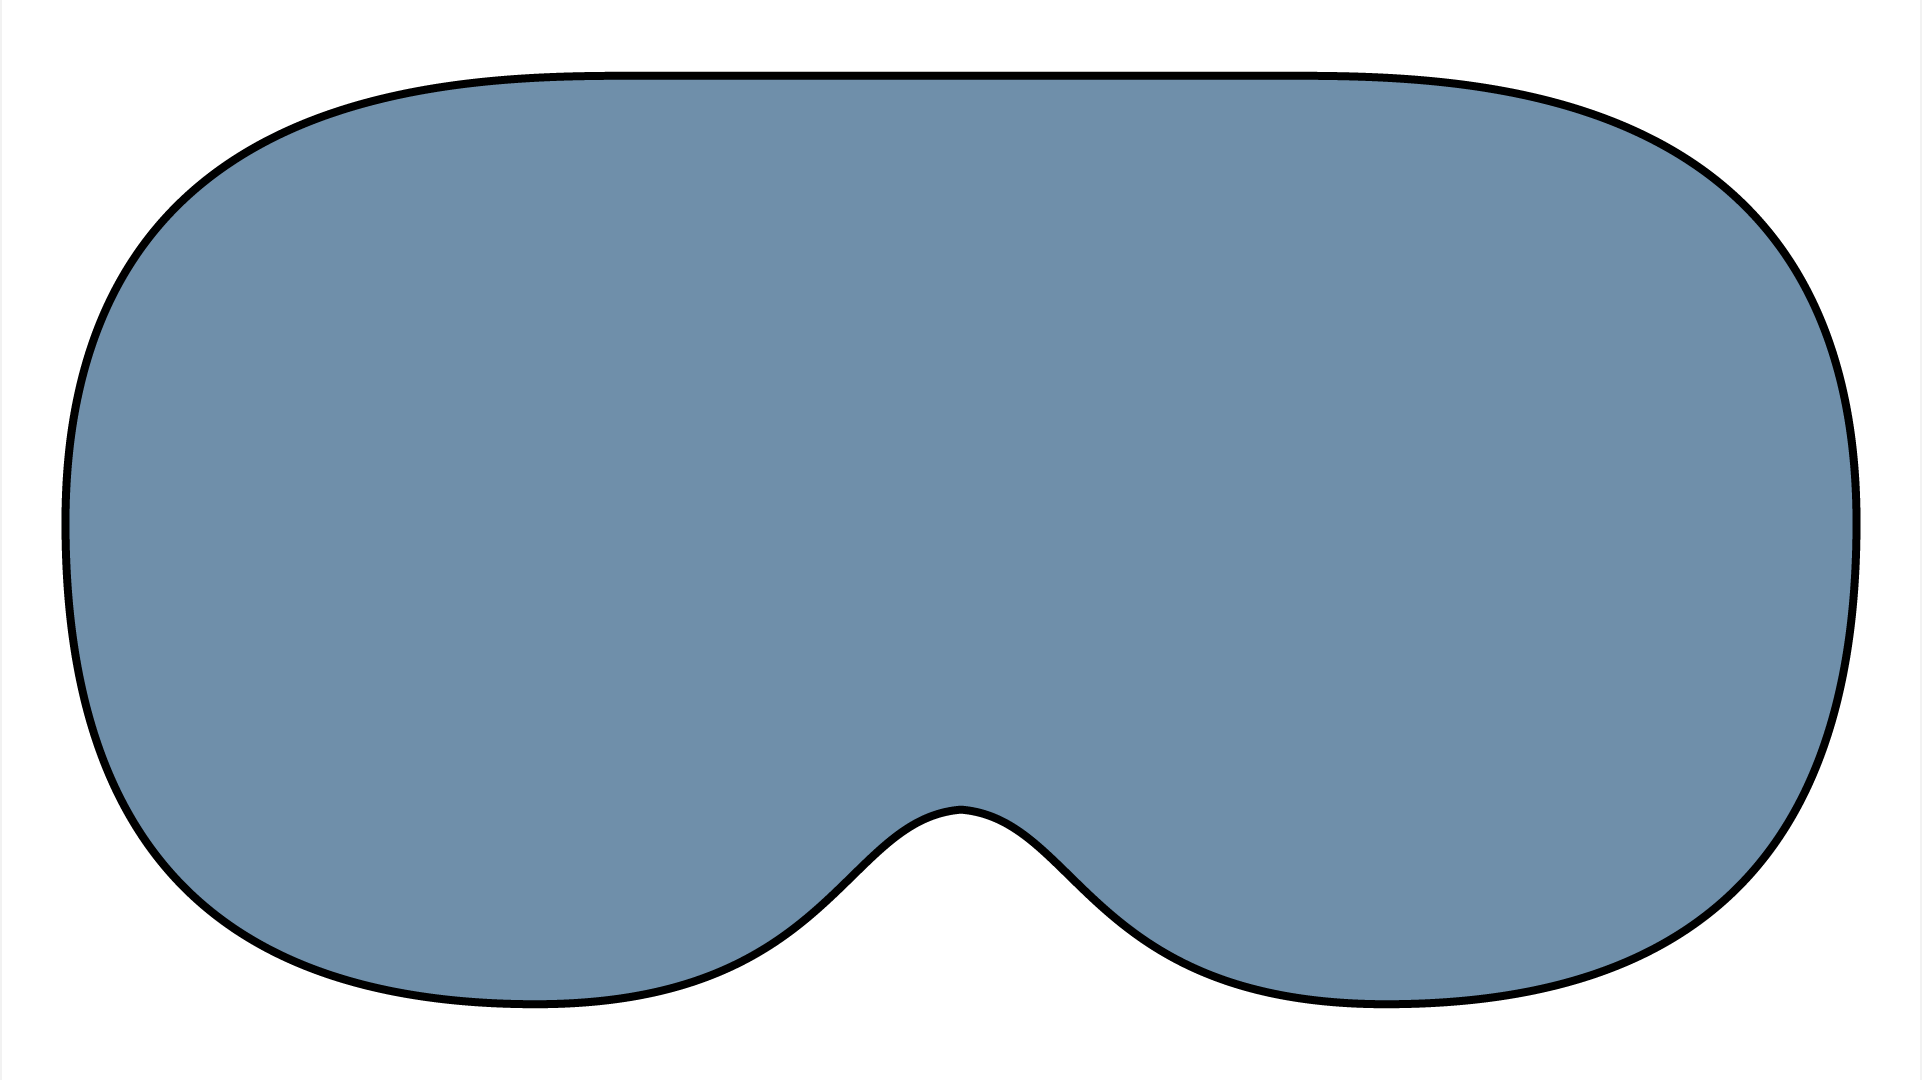
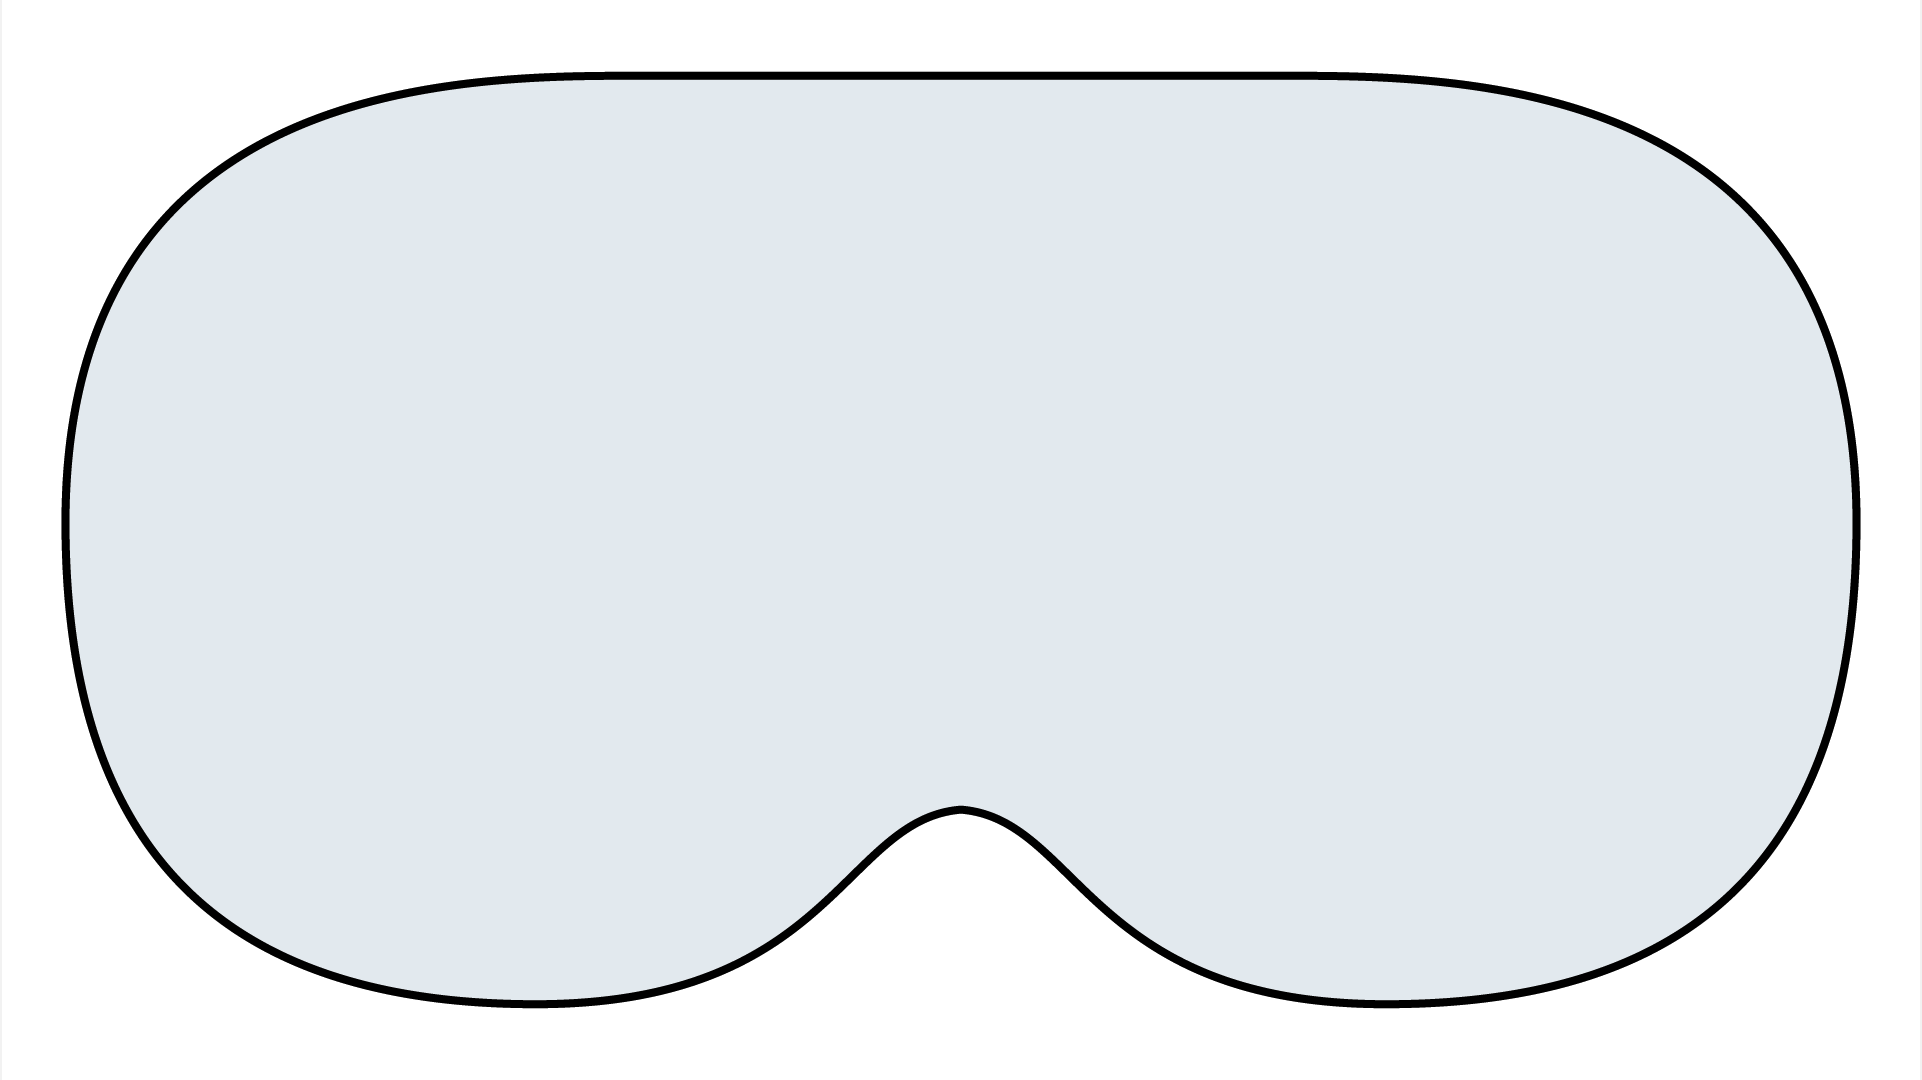
Added MRCarousel

diff --git a/src/components/MRCarousel.jsx b/src/components/MRCarousel.jsx
@@ -1,7 +1,7 @@
 import {Box, Typography} from "@material-ui/core";
 import Carousel from "react-material-ui-carousel";
 
-export const VRCarousel = () => {
+export const MRCarousel = () => {
   return (
     <Box
       className="page"
@@ -15,8 +15,8 @@ export const VRCarousel = () => {
     >
       <img
         className="over-1 absolute"
-        src="images/vr-frame.png"
-        alt="vr frame"
+        src="images/mr-frame.png"
+        alt="mr frame"
       />
       <Box
         sx={{
@@ -63,14 +63,9 @@ export const VRCarousel = () => {
           >
             <Box sx={{maxWidth: "80%"}}>
               <Typography className="gray-box" variant="h2" align="center">
-                Virtual Reality
+                Mixed Reality
               </Typography>
             </Box>
-            <img
-              className="under-1 absolute"
-              src="images/forrest.jpg"
-              alt="forrest"
-            />
           </Box>
           <Box
             sx={{
@@ -83,14 +78,9 @@ export const VRCarousel = () => {
           >
             <Box sx={{maxWidth: "80%"}}>
               <Typography className="gray-box" variant="h2" align="center">
-                changes surroundings...
+                more words
               </Typography>
             </Box>
-            <img
-              className="under-1 absolute"
-              src="images/forrest.jpg"
-              alt="forrest"
-            />
           </Box>
           <Box
             sx={{
@@ -103,14 +93,9 @@ export const VRCarousel = () => {
           >
             <Box sx={{maxWidth: "80%"}}>
               <Typography className="gray-box" variant="h2" align="center">
-                ...or in another scenic place.
+                add more here
               </Typography>
             </Box>
-            <img
-              className="under-1 absolute"
-              src="images/livingroom.jpg"
-              alt="living room"
-            />
           </Box>
           <Box
             sx={{
@@ -123,20 +108,12 @@ export const VRCarousel = () => {
           >
             <Box sx={{maxWidth: "80%"}}>
               <Typography className="white" variant="h2" align="center">
-                Virtual Reality
+                Augmented Reality
               </Typography>
-              <Typography className="white">Virtual Reality</Typography>
+              <Typography className="white">Augmented Reality</Typography>
             </Box>
-            <Box
-              className="under-1 absolute dark-screen"
-              sx={{height: "100vh", width: "100vw"}}
-            />
           </Box>
         </Carousel>
-        <Box
-          className="under-2 absolute dark-screen"
-          sx={{height: "100vh", width: "100vw"}}
-        />
       </Box>
     </Box>
   );

diff --git a/src/App.js b/src/App.js
@@ -1,11 +1,11 @@
 import React from 'react';
 import './app.css';
 import { Typography, Box } from '@material-ui/core';
-import { TypedText, Page, StickyBox, VRCarousel, ARCarousel } from 'components';
+import { TypedText, Page, StickyBox, VRCarousel, ARCarousel, MRCarousel } from 'components';
 import { Waypoint } from 'react-waypoint';
 
 const App = () => {
-  const realityTypes = ["Virtual", "Augmented", "Mixed"];
+  const realityTypes = ["Augmented", "Virtual", "Mixed"];
   // const [viewHeight, setViewHeight] = useState(0);
   // useEffect(() => {
   //   setViewHeight(document.getElementById('1').clientHeight);
@@ -18,20 +18,18 @@ const App = () => {
 
       <div className="snap">
         <section>
-          <Page>
-            <Typography variant="h1" align="center">What is <br></br>
-              <TypedText content={realityTypes} /> <br></br>
-              Reality?</Typography>
-          </Page>
+
           <StickyBox depth={3}>
             <img src="images/livingroom.jpg" alt="living room" />
           </StickyBox>
           <Page>
-            <Typography className="gray-box" variant="h2" align="center">You're in a living room.</Typography>
+            <Typography className="gray-box" variant="h1" align="center">What is <br></br>
+              <TypedText content={realityTypes} /> <br></br>
+              Reality?</Typography>
           </Page>
-          <VRCarousel />
           <ARCarousel />
-
+          <VRCarousel />
+          <MRCarousel />
         </section>
         <section>
           <Typography className="sticker" variant="h2">Second Sticky</Typography>

diff --git a/src/components/ARCarousel.jsx b/src/components/ARCarousel.jsx
@@ -14,7 +14,7 @@ export const ARCarousel = () => {
       }}
     >
       <img
-        className="over-1 absolute ar-frame"
+        className="over-1 absolute"
         src="images/ar-frame.png"
         alt="ar frame"
       />
@@ -63,7 +63,7 @@ export const ARCarousel = () => {
           >
             <Box sx={{maxWidth: "80%"}}>
               <Typography className="gray-box" variant="h2" align="center">
-                Next, you try an augmented reality headset.
+                Augmented Reality
               </Typography>
             </Box>
           </Box>

diff --git a/src/components/index.js b/src/components/index.js
@@ -3,3 +3,4 @@ export { Page } from "./Page";
 export { StickyBox } from "./StickyBox";
 export { VRCarousel } from "./VRCarousel";
 export { ARCarousel } from "./ARCarousel";
+export { MRCarousel } from "./MRCarousel";

diff --git a/src/app.css b/src/app.css
@@ -33,10 +33,6 @@ img {
   margin: 0;
 }
 
-.ar-frame {
-  opacity: 0.2;
-}
-
 .dark-screen {
   background-color: #0c0e11;
 }
